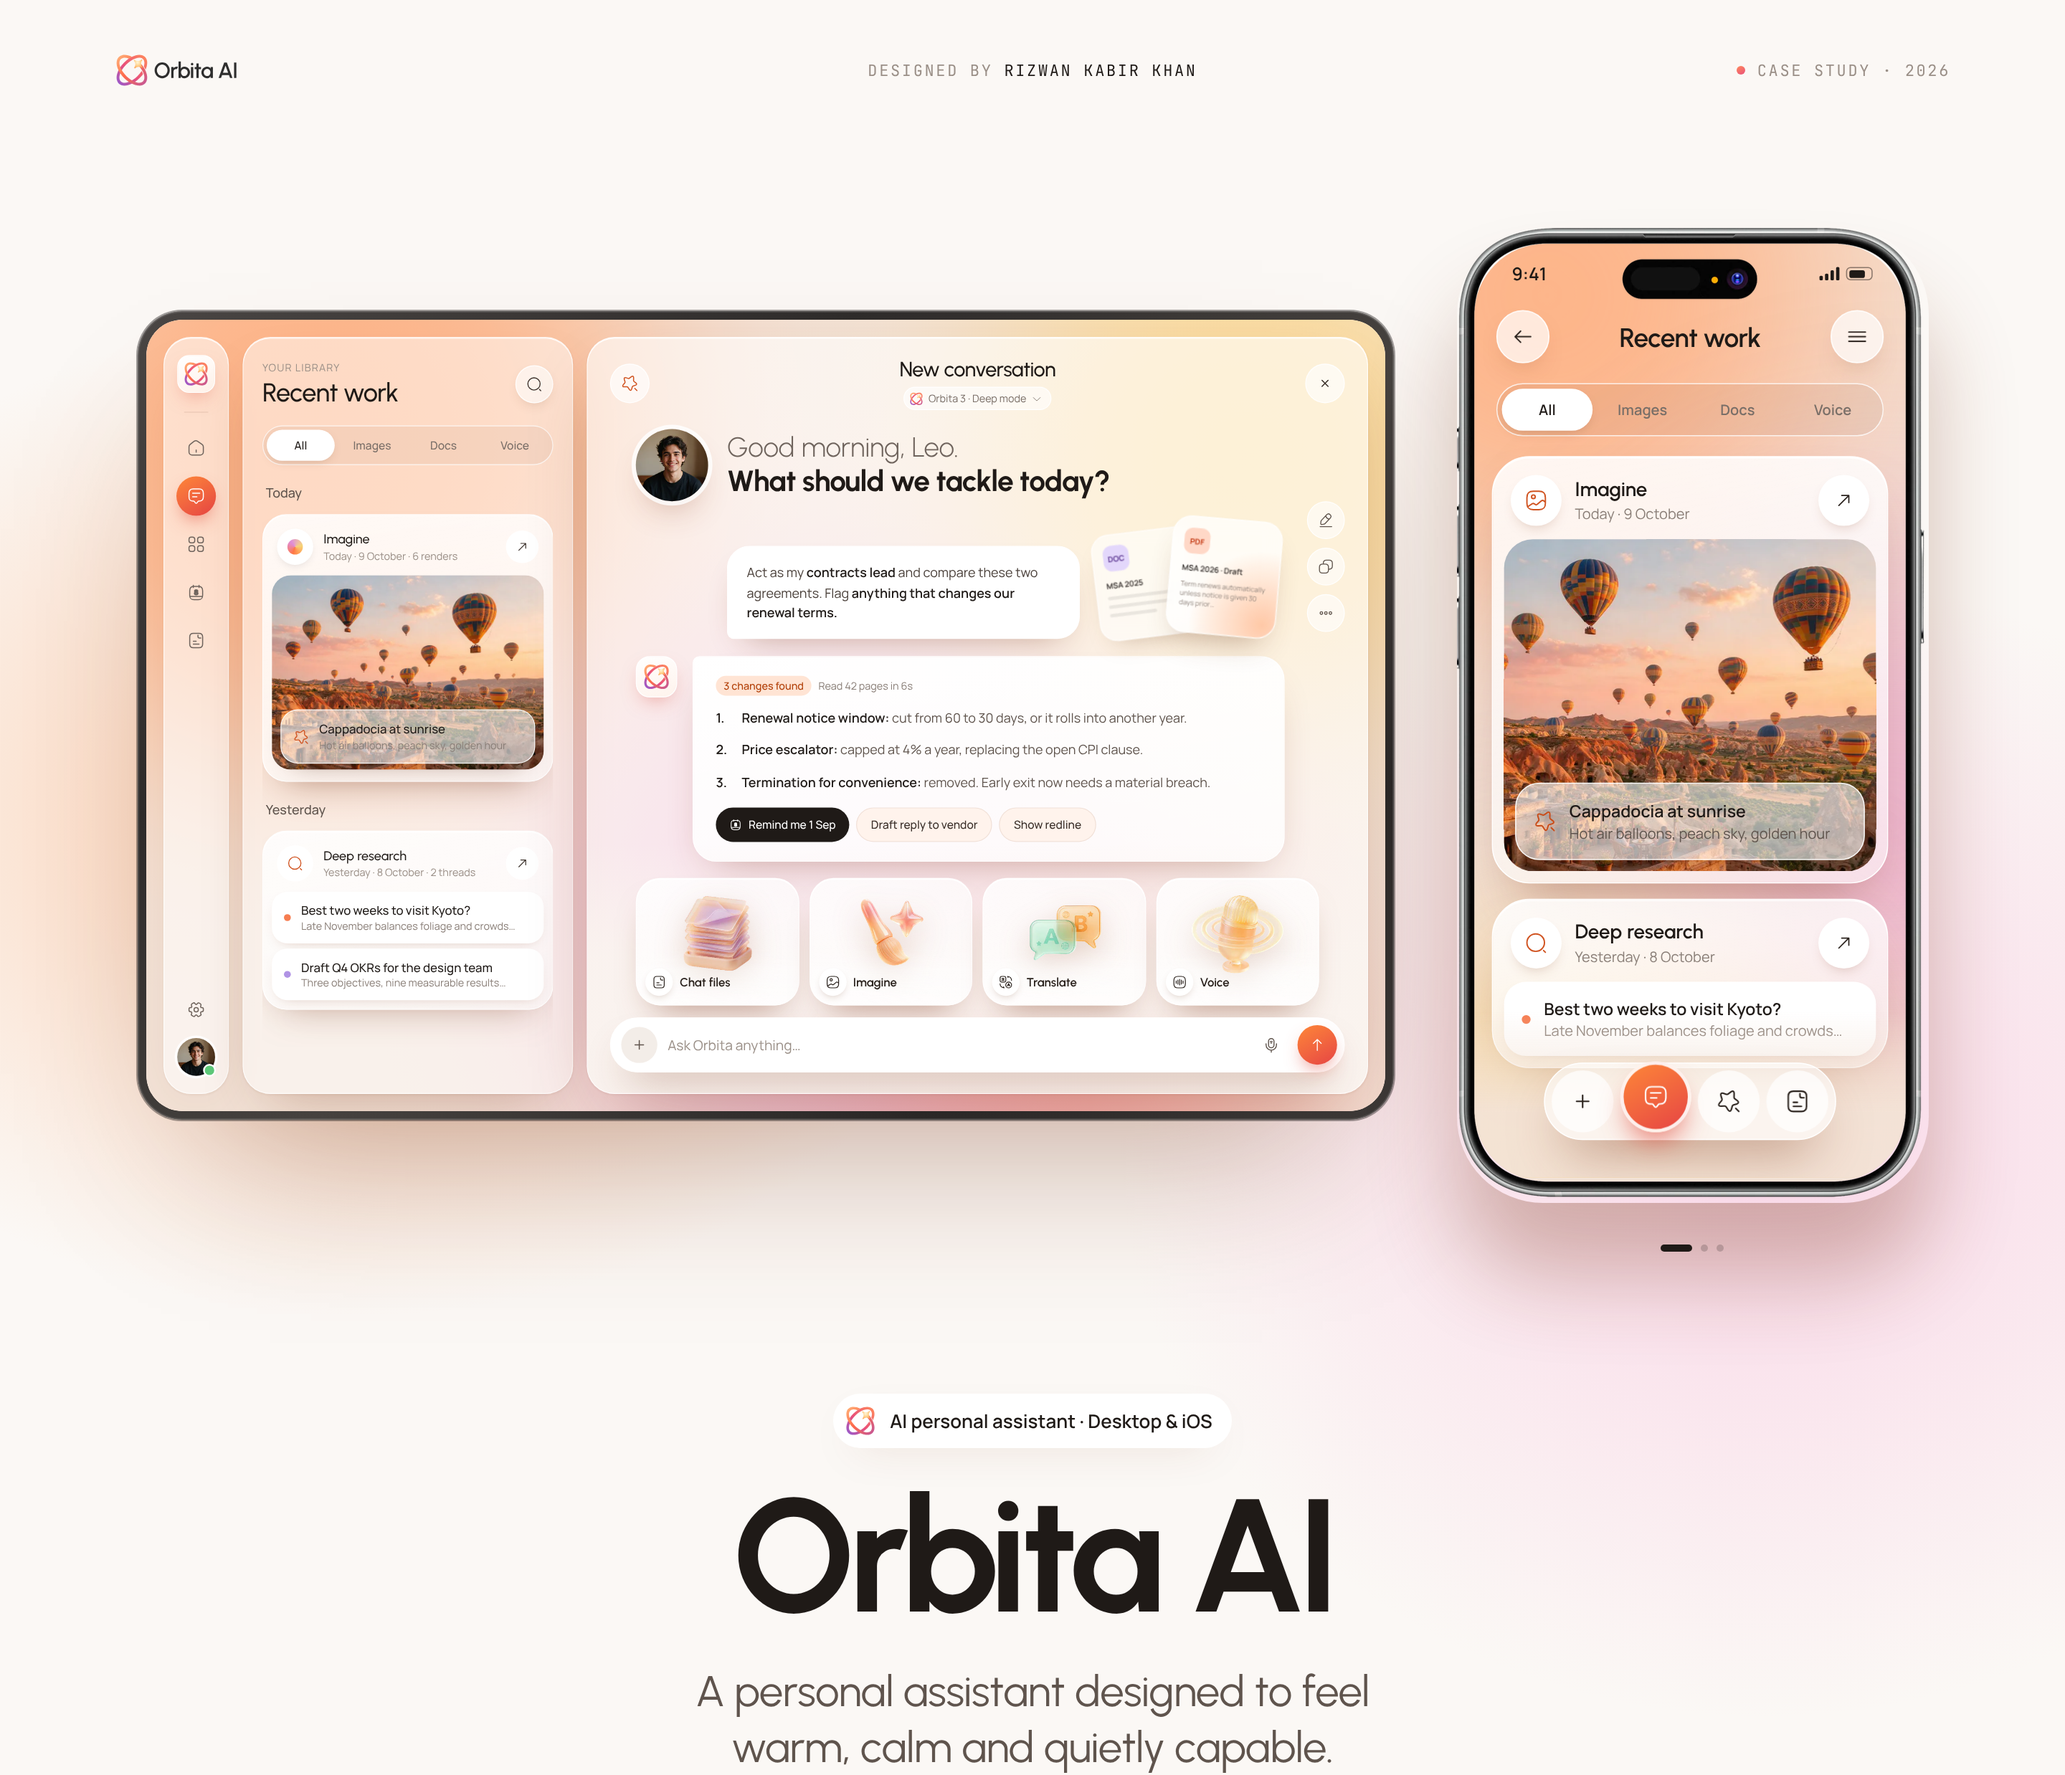
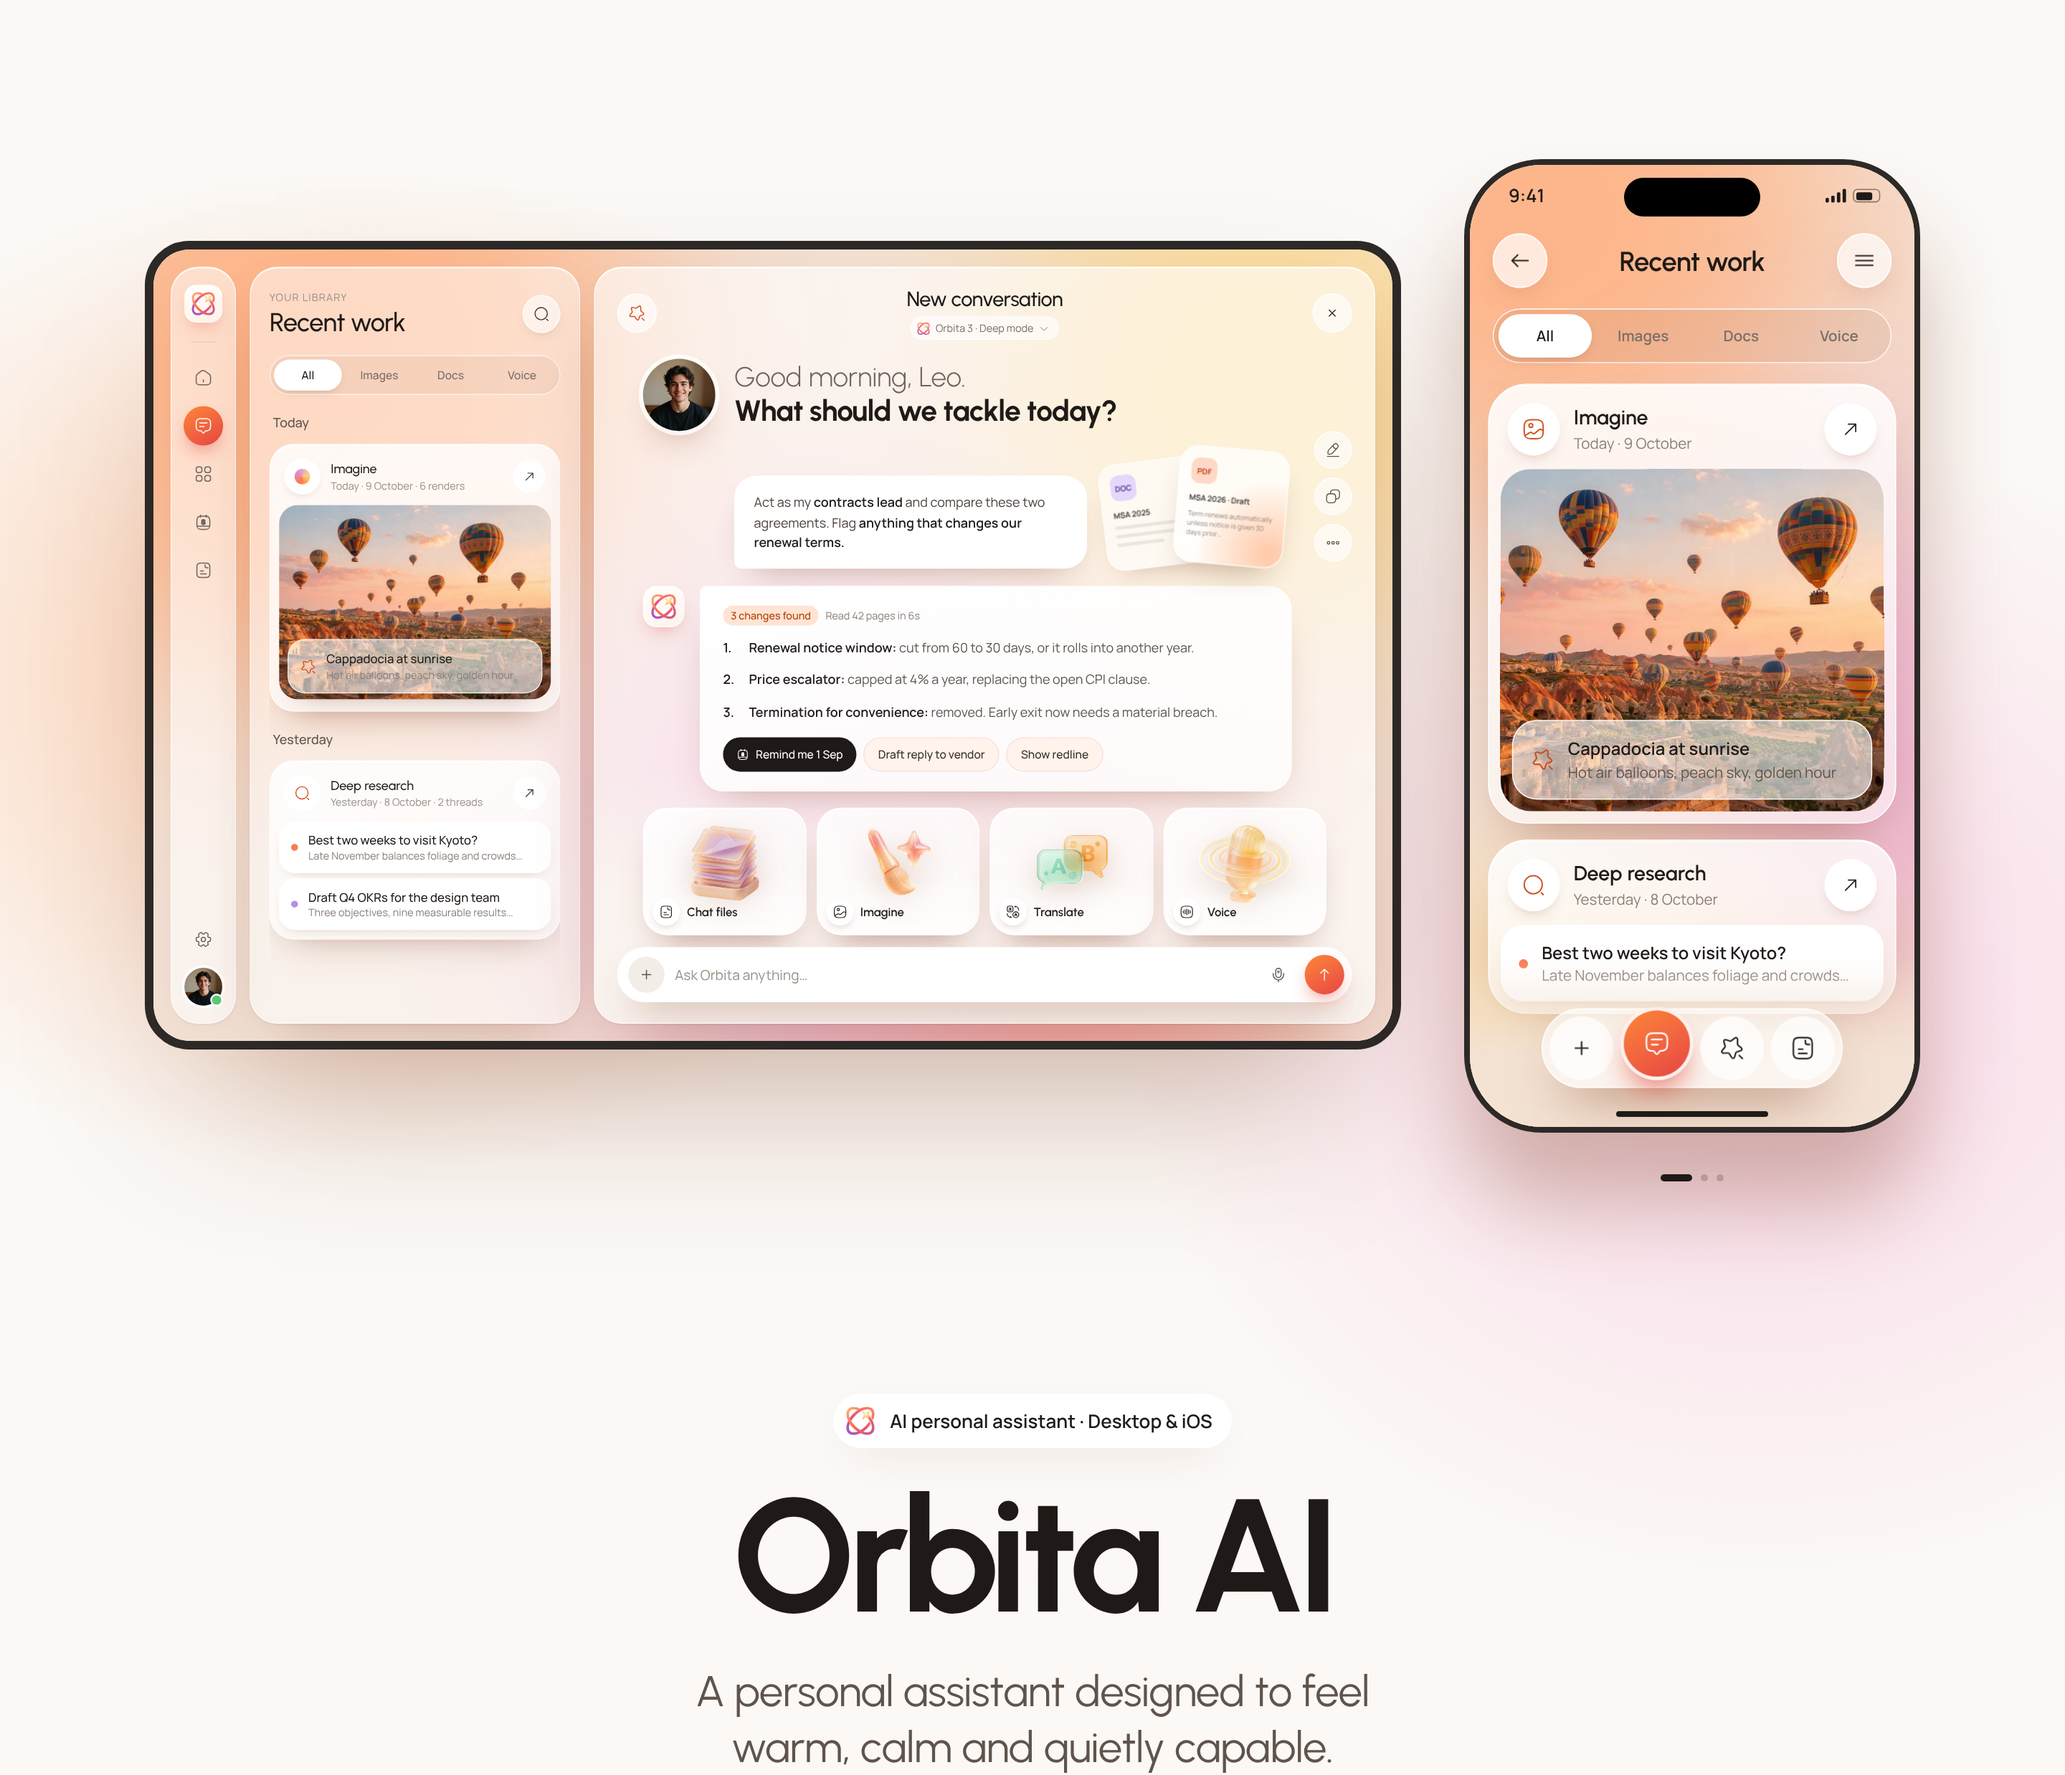
Hero: matched outline frames, remove top bar
Replace the photographic iPhone PNG with a CSS outline so tablet and
phone share one soft-black frame, weighted to size (6px / 4px). The
phone's island and home bar sit on the frame so they stay put while the
screens switch. Drop the top bar; the hero now fills the first screen.
Re-export the Behance stills to match.

Claude-Session: https://claude.ai/code/session_011V8rb8254WpCTtjyLXP487

Changed region(s): [[0.0625, 0.0622, 0.9375, 0.7464], [0.0625, 0.0311, 0.0938, 0.0622]]

diff --git a/src/components/Devices.module.css b/src/components/Devices.module.css
@@ -1,8 +1,10 @@
-/* Hero desktop: soft-black metal edge, no inner line. */
+/* Hero pair: one soft-black outline, weighted to each device's size
+   (tablet 6px around 864px, phone 4px around 310px). */
 .deskFrame {
-  width: 876px; max-width: 100%; box-sizing: border-box; border-radius: 31px; padding: 6px;
-  background: linear-gradient(145deg, #4a4644, #2e2b2a 30%, #46423f 55%, #2a2726 80%, #3d3937);
-  box-shadow: inset 0 0 0 1px rgba(255,255,255,.12), 0 0 0 1px rgba(20,18,17,.4), 0 60px 120px -50px rgba(120,50,20,.45);
+  --frame: #2c2927;
+  width: 876px; max-width: 100%; box-sizing: border-box; border-radius: 31px;
+  border: 6px solid var(--frame); background: var(--frame);
+  box-shadow: 0 60px 120px -50px rgba(120,50,20,.45);
 }
 .deskBezel { border-radius: 25px; overflow: hidden; }
 .deskScreen { width: 100%; border-radius: 25px; overflow: hidden; background: #f3e3d7; }
@@ -17,13 +19,16 @@
 /* Feature-row phone (thin outline lives on the screen itself). */
 .phoneBox { position: relative; width: 325px; max-width: 100%; border-radius: 44px; box-shadow: 0 60px 110px -50px rgba(120,50,20,.55); }
 
-/* Hero iPhone: PNG frame over three stacked live screens. */
-.iphone { position: relative; width: 329px; height: 680px; flex: none; }
-.iphoneShadow { position: absolute; inset: 0; border-radius: 60px; box-shadow: 0 50px 60px rgba(120,50,20,.3); }
-.iphoneScreen { position: absolute; left: 12px; top: 11px; width: 301px; height: 654px; border-radius: 50px; overflow: hidden; background: #f3e3d7; isolation: isolate; }
+/* Hero iPhone: CSS outline around three stacked live screens. */
+.iphone { position: relative; width: 318px; height: 679px; flex: none; }
+.iphoneScreen {
+  position: absolute; inset: 0; box-sizing: border-box; border: 4px solid #2c2927; border-radius: 54px;
+  overflow: hidden; background: #f3e3d7; isolation: isolate; box-shadow: 0 50px 60px rgba(120,50,20,.3);
+}
 .slide { position: absolute; inset: 0; }
 .heroGlow { position: absolute; inset: 0; pointer-events: none; opacity: 0; z-index: 3; background: radial-gradient(60% 40% at 50% 92%, oklch(0.8 0.15 45 / .55), transparent 70%); }
-.iphoneFrame { position: absolute; inset: 0; width: 100%; height: 100%; pointer-events: none; }
+.island { position: absolute; left: 50%; top: 9px; translate: -50% 0; width: 95px; height: 27px; border-radius: 16px; background: #000; z-index: 5; }
+.homeBar { position: absolute; left: 50%; bottom: 7px; translate: -50% 0; width: 106px; height: 4px; border-radius: 2px; background: #1f1a17; z-index: 5; }
 .dots { position: absolute; left: 0; right: 0; bottom: -34px; display: flex; justify-content: center; gap: 6px; }
 .dot { width: 5px; height: 5px; border-radius: 3px; background: rgba(31,26,23,.2); transition: width .6s var(--ease), background-color .6s var(--ease); }
 .dotOn { width: 22px; background: #1f1a17; }

diff --git a/src/components/Devices.tsx b/src/components/Devices.tsx
@@ -3,10 +3,9 @@ import { Scaled } from './Scaled';
 import { DesktopApp } from '../screens/DesktopApp';
 import { PHONES, type PhoneKind } from '../screens/PhoneScreens';
 import { useInView, prefersReducedMotion } from '../lib/env';
-import { img } from '../assets';
 import s from './Devices.module.css';
 
-/** Live desktop app in a soft-black metal frame (hero). */
+/** Live desktop app in a soft-black outline (hero), paired with HeroPhone. */
 export function HeroDesktop() {
   return (
     <div className={s.deskFrame}>
@@ -113,7 +112,6 @@ export function HeroPhone() {
 
   return (
     <div ref={box} className={s.iphone}>
-      <div className={s.iphoneShadow} />
       <div className={s.iphoneScreen}>
         {ORDER.map((k, i) => {
           const Phone = PHONES[k];
@@ -133,8 +131,10 @@ export function HeroPhone() {
           );
         })}
         <div ref={glow} className={s.heroGlow} />
+        {/* Hardware stays put while the screens change underneath it. */}
+        <div className={s.island} />
+        <div className={s.homeBar} />
       </div>
-      <img src={img.iphoneFrame} alt="" className={s.iphoneFrame} decoding="async" />
       <div className={s.dots} aria-hidden="true">
         {ORDER.map((k, i) => <div key={k} className={`${s.dot} ${i === active ? s.dotOn : ''}`} />)}
       </div>

diff --git a/src/App.tsx b/src/App.tsx
@@ -1,5 +1,5 @@
 import { useLayoutEffect, useRef, type RefObject } from 'react';
-import { TopBar, Hero } from './sections/Hero';
+import { Hero } from './sections/Hero';
 import { Brief, Marquee, Mockups, Challenge, Principles } from './sections/Story';
 import { MobileIntro, MobileFeatures, People } from './sections/Mobile';
 import { DesignSystem } from './sections/DesignSystem';
@@ -7,7 +7,7 @@ import { DarkMode, Flow, Closing } from './sections/Closing';
 import { prefersReducedMotion } from './lib/env';
 
 const DESIGN_W = 1440;
-const TOP_H = 98;
+const TOP_H = 0;
 
 /**
  * ≥1024px: the 1440px design is zoomed to the window (CSS `zoom`, so layout,
@@ -87,7 +87,6 @@ export function App() {
   useAmbient();
   return (
     <div ref={page} className="page">
-      <TopBar />
       <Hero />
       <Brief />
       <Marquee />

diff --git a/src/assets/index.ts b/src/assets/index.ts
@@ -6,7 +6,6 @@ import balloon1 from './img/balloon-1.webp';
 import balloon2 from './img/balloon-2.webp';
 import personVoice from './img/person-voice-2.webp';
 import personJoy from './img/person-joy.webp';
-import iphoneFrame from './img/frame-iphone-empty.webp';
 import toolFiles from './img/tool-files.webp';
 import toolImagine from './img/tool-imagine.webp';
 import toolTranslate from './img/tool-translate.webp';
@@ -20,7 +19,7 @@ import appIcon from './img/cs-app-icon.webp';
 import portrait from './img/cs-portrait.webp';
 
 export const img = {
-  logo, fullLogo, avatar, balloon1, balloon2, personVoice, personJoy, iphoneFrame,
+  logo, fullLogo, avatar, balloon1, balloon2, personVoice, personJoy,
   toolFiles, toolImagine, toolTranslate, toolVoice,
   stepAsk, stepUnderstand, stepAct, stepDone,
   phoneHand, appIcon, portrait,

diff --git a/src/sections/Hero.tsx b/src/sections/Hero.tsx
@@ -2,16 +2,6 @@ import { HeroDesktop, HeroPhone } from '../components/Devices';
 import { img } from '../assets';
 import s from './cs.module.css';
 
-export function TopBar() {
-  return (
-    <nav className={`${s.wrap} ${s.topbar}`}>
-      <img src={img.fullLogo} alt="Orbita AI" className={s.topLogo} />
-      <div className={s.byline}>Designed by <span>Rizwan Kabir Khan</span></div>
-      <div className={s.topMeta}><span className={s.gradDot} />Case study · 2026</div>
-    </nav>
-  );
-}
-
 export function Hero() {
   return (
     <section data-screen-label="01 Hero" className={`${s.wrap} ${s.hero}`}>
